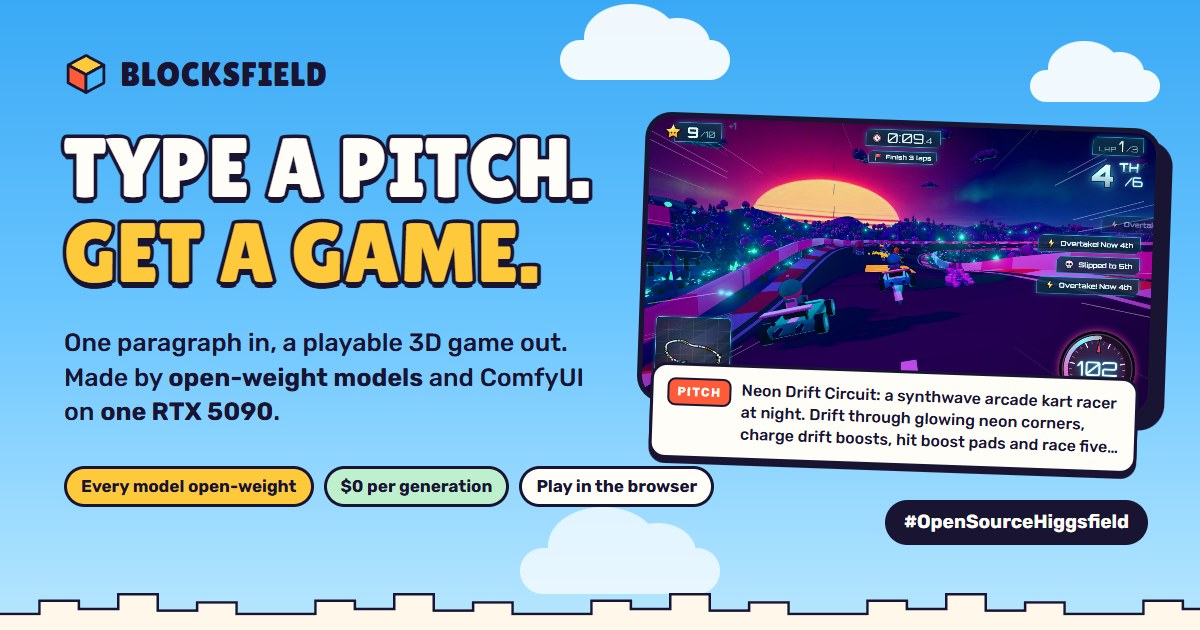
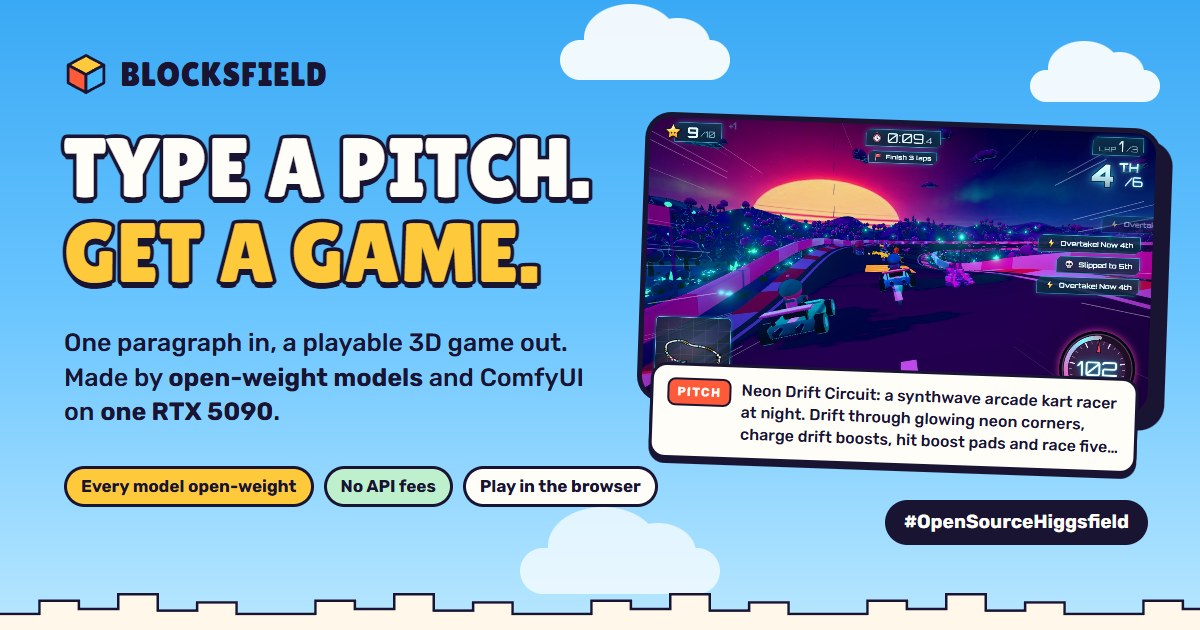
site: QA fixes — control lines naming an unbound key are hidden (neon_drift 'R: reset'), gamepad row per player type from the kit's bindings, '$0 per generation' -> 'No API fees'
Claude-Session: https://claude.ai/code/session_01WsKnN5qQcNifhNfD8gKy9s

Changed region(s): [[0.2775, 0.7238, 0.6167, 0.8143]]

diff --git a/web/site/js/game.js b/web/site/js/game.js
@@ -23,10 +23,14 @@
   }
   if (!/^[\w.-]+$/.test(id)) return fail("No game id in the link.");
 
-  Promise.all([getJSON(base + "about.json"), getJSON(base + "assets/assets.json")]).then(([a, assets]) => {
-    if (!a) return fail(`No record for "${id}".`);
-    render(a, assets || {});
-  });
+  Promise.all([getJSON(base + "about.json"), getJSON(base + "assets/assets.json"), getJSON("../games/index.json")])
+    .then(([a, assets, idx]) => {
+      if (!a) return fail(`No record for "${id}".`);
+      // the index's controls are checked against the kit and game code (lines naming an unbound key are dropped)
+      const entry = ((idx && idx.games) || []).find((g) => g.id === id);
+      if (entry && Array.isArray(entry.controls)) a = { ...a, controls: entry.controls };
+      render(a, assets || {});
+    });
 
   function render(a, assets) {
     const plan = a.plan || {};
@@ -170,13 +174,22 @@
       "left stick move · drag the right side to look · FIRE / JUMP buttons"],
   };
   HOWTO.boat = HOWTO.kart;
+  // gamepad, per type, from the kit's readKeys (A = button 0 jump, X / RB / RT = action, B / LT = pound) and the
+  // vehicle drift input (jump or action); the right stick turns the orbit/follow camera, not the vehicles' chase cam
+  const PAD = {
+    platformer: "left stick move · A jump · X / RB dash · B ground pound · right stick camera",
+    kart: "left stick steer and throttle · hold A or X / RB in a turn to drift, release to boost",
+    topdown: "left stick move · A jump (fire in blaster games) · X / RB dash",
+    fps: "left stick move · A jump and fire · X / RB action",
+  };
+  PAD.boat = PAD.kart;
   function howTo(type, hasControls, play) {
     const h = HOWTO[type];
     if (!h) return "";
     const rows = [];
     if (!hasControls) rows.push(["Keyboard", h[0]]);
     rows.push(["Phone", h[1]]);
-    rows.push(["Gamepad", "left stick move · A jump · X / RB action · right stick camera"]);
+    rows.push(["Gamepad", PAD[type] || PAD.platformer]);
     rows.push(["Pause", "Esc / P"]);
     return `<h3>How to play</h3><dl>${rows.map(([k, v]) => `<div><dt>${k}</dt><dd>${esc(v)}</dd></div>`).join("")}</dl>
       <p class="howto-foot">Phones: play in landscape. Weak laptop? Open <a href="${esc(url(play))}?quality=low">the low-quality version</a>.</p>`;

diff --git a/web/index.html b/web/index.html
@@ -4,7 +4,7 @@
 <meta charset="utf-8">
 <meta name="viewport" content="width=device-width,initial-scale=1">
 <title>Blocksfield: type a pitch, get a game</title>
-<meta name="description" content="Type a one-paragraph pitch and get a playable game, made entirely by open-weight models on one RTX 5090: Qwen3.8-27B plans, codes, playtests and repairs it; ComfyUI makes the art, music, sound and props. $0 per generation. #OpenSourceHiggsfield">
+<meta name="description" content="Type a one-paragraph pitch and get a playable game, made entirely by open-weight models on one RTX 5090: Qwen3.8-27B plans, codes, playtests and repairs it; ComfyUI makes the art, music, sound and props. No API fees. #OpenSourceHiggsfield">
 <meta property="og:type" content="website">
 <meta property="og:site_name" content="Blocksfield">
 <meta property="og:title" content="Blocksfield: type a pitch, get a game">
@@ -55,7 +55,7 @@
         <div class="hero-facts">
           <span class="chip sun">Every model open-weight</span>
           <span class="chip">One RTX 5090</span>
-          <span class="chip grass">$0 per generation</span>
+          <span class="chip grass">No API fees</span>
         </div>
       </div>
       <div>
@@ -198,8 +198,8 @@
         <div>
           <p class="kicker" style="--k:var(--grass)">Open weights only</p>
           <h2 class="display h2">Every model is open-weight</h2>
-          <p class="lede">No partner nodes, no closed APIs. All of them run on one rented RTX 5090, so a game costs
-            $0 per generation.</p>
+          <p class="lede">No partner nodes, no closed APIs. All of them run on one rented RTX 5090, so a game costs no
+            per-call API fees, only GPU time.</p>
         </div>
       </div>
       <table class="tbl reveal">

diff --git a/web/site/og-card.html b/web/site/og-card.html
@@ -44,7 +44,7 @@
   <div class="brandrow"><img src="img/cube.svg" alt=""><b>BLOCKSFIELD</b></div>
   <h1 class="display outlined">TYPE A PITCH.<span class="l2">GET A GAME.</span></h1>
   <p class="sub">One paragraph in, a playable 3D game out. Made by <b>open-weight models</b> and ComfyUI on <b>one RTX 5090</b>.</p>
-  <div class="chips"><span class="chip sun">Every model open-weight</span><span class="chip grass">$0 per generation</span><span class="chip">Play in the browser</span></div>
+  <div class="chips"><span class="chip sun">Every model open-weight</span><span class="chip grass">No API fees</span><span class="chip">Play in the browser</span></div>
   <div class="hash"><span class="chip ink">#OpenSourceHiggsfield</span></div>
   <div class="frame">
     <div class="screen"><img id="shot" alt=""></div>

diff --git a/web/tools/build_index.py b/web/tools/build_index.py
@@ -19,6 +19,40 @@ WEB = Path(__file__).resolve().parents[1]
 CARD_KEYS = ("title", "tagline", "pitch", "genre", "controls", "created", "thumbnail", "video", "play")
 
 
+_KIT_SRC = None
+_TOKEN_CODES = {"space": ["Space"], "shift": ["Shift"], "esc": ["Escape"], "escape": ["Escape"], "enter": ["Enter"],
+                "tab": ["Tab"], "ctrl": ["Control"], "control": ["Control"]}
+
+
+def checked_controls(d: Path, controls: list) -> list:
+    """Drop control lines naming a key that neither the kit nor this game's code listens for (e.g. an "R: reset" the
+    planner promised but nobody implemented). A line's keys are the text before its colon: single letters (R, C, E)
+    and named keys (Space, Shift, Esc); arrows, WASD and mouse words always pass."""
+    import re
+    global _KIT_SRC
+    if _KIT_SRC is None:
+        _KIT_SRC = "".join(p.read_text(encoding="utf-8", errors="ignore") for p in (WEB / "kit").glob("*.js"))
+    try:
+        src = _KIT_SRC + (d / "game.js").read_text(encoding="utf-8", errors="ignore")
+    except OSError:
+        return list(controls)
+    out = []
+    for line in controls or []:
+        keys = str(line).split(":", 1)[0] if ":" in str(line) else ""
+        ok = True
+        for tok in re.findall(r"[A-Za-z]+", keys):
+            t = tok.lower()
+            if t in ("wasd", "arrows", "arrow", "or", "and", "mouse", "click", "hold", "drag", "keys", "key"):
+                continue
+            if len(tok) == 1:
+                ok = ok and (f"Key{tok.upper()}" in src or f"'{tok.lower()}'" in src)
+            elif t in _TOKEN_CODES:
+                ok = ok and any(c in src for c in _TOKEN_CODES[t])
+        if ok:
+            out.append(line)
+    return out
+
+
 def game_entry(d: Path) -> dict | None:
     try:
         about = json.loads((d / "about.json").read_text(encoding="utf-8"))
@@ -26,6 +60,8 @@ def game_entry(d: Path) -> dict | None:
         return None
     e = {"id": d.name, **{k: about.get(k) for k in CARD_KEYS}}
     e["play"] = e["play"] or "index.html"
+    if e.get("controls"):
+        e["controls"] = checked_controls(d, e["controls"])
     for k in ("thumbnail", "video"):
         if e[k] and not (d / e[k]).exists():
             e[k] = None
